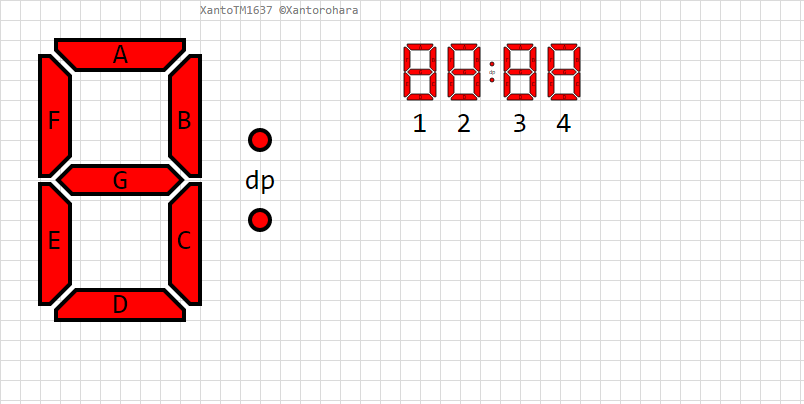
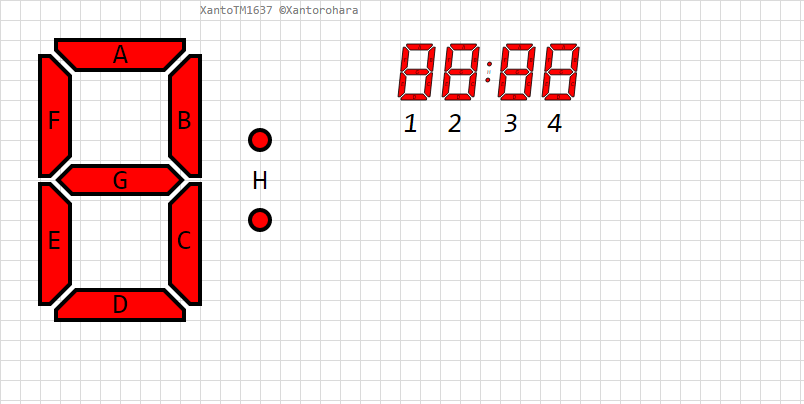
update readme, table with symbols

Changed region(s): [[0.4975, 0.1188, 0.7463, 0.3267], [0.2799, 0.4158, 0.342, 0.4752]]

diff --git a/extras/XantoTM1637-drawing.html b/extras/XantoTM1637-drawing.html
@@ -2,13 +2,9 @@
 <html>
 <head>
     <style>
-        i {
-            color:
-        }
     </style>
 </head>
 <body>
-<a target="_blank"
 <img src="XantoTM1637-drawing.svg" style="width: 804px"/>
 </body>
 </html>

diff --git a/README.md b/README.md
@@ -24,15 +24,31 @@ void loop() {
 [ ] Todo write about
 
 ## Drawing
-[ ] Todo write description
  
 ![Drawing](https://github.com/xantorohara/XantoTM1637/raw/master/extras/XantoTM1637-drawing.png?raw=true)
 
+Symbol to byte code mapping table:
 
-Symbol |  H  |  G  |  F  |  E  |  D  |  C  |  B  |  A  | HEX code
------- | --- | --- | --- | --- | --- | --- | --- | --- | --------
- 0     |  0  |  0  |  0  |  0  |  0  |  0  |  0  |  0  | 0x00
- 1     |  0  |  0  |  0  |  0  |  0  |  0  |  0  |  0  | 0x00
+Symbol |  A  |  B  |  C  |  D  |  E  |  F  |  G  |  H  | HEX byte code
+------ | --- | --- | --- | --- | --- | --- | --- | --- | -------------
+   0   |  1  |  1  |  1  |  1  |  1  |  1  |  0  |  0  |   0xFC
+   1   |  0  |  1  |  1  |  0  |  0  |  0  |  0  |  0  |   0x60
+   2   |  1  |  1  |  0  |  1  |  1  |  0  |  1  |  0  |   0xDA   
+   3   |  1  |  1  |  1  |  1  |  0  |  0  |  1  |  0  |   0xF2   
+   4   |  0  |  1  |  1  |  0  |  0  |  1  |  1  |  0  |   0x66   
+   5   |  1  |  0  |  1  |  1  |  0  |  1  |  1  |  0  |   0xB6   
+   6   |  1  |  0  |  1  |  1  |  1  |  1  |  1  |  0  |   0xBE   
+   7   |  1  |  1  |  1  |  0  |  0  |  0  |  0  |  0  |   0xE0   
+   8   |  1  |  1  |  1  |  1  |  1  |  1  |  1  |  0  |   0xFE   
+   9   |  1  |  1  |  1  |  1  |  0  |  1  |  1  |  0  |   0xF6   
+   A   |  1  |  1  |  1  |  0  |  1  |  1  |  1  |  0  |   0xEE   
+   b   |  0  |  0  |  0  |  0  |  0  |  0  |  0  |  0  |   0x00   
+   C   |  0  |  0  |  0  |  0  |  0  |  0  |  0  |  0  |   0x00   
+   d   |  0  |  0  |  0  |  0  |  0  |  0  |  0  |  0  |   0x00   
+   E   |  0  |  0  |  0  |  0  |  0  |  0  |  0  |  0  |   0x00   
+   F   |  0  |  0  |  0  |  0  |  0  |  0  |  0  |  0  |   0x00   
+   A   |  0  |  0  |  0  |  0  |  0  |  0  |  0  |  0  |   0x00   
+   -   |  0  |  0  |  0  |  0  |  0  |  0  |  0  |  0  |   0x00   
  
 ## Class API
 [ ] Todo write methods
